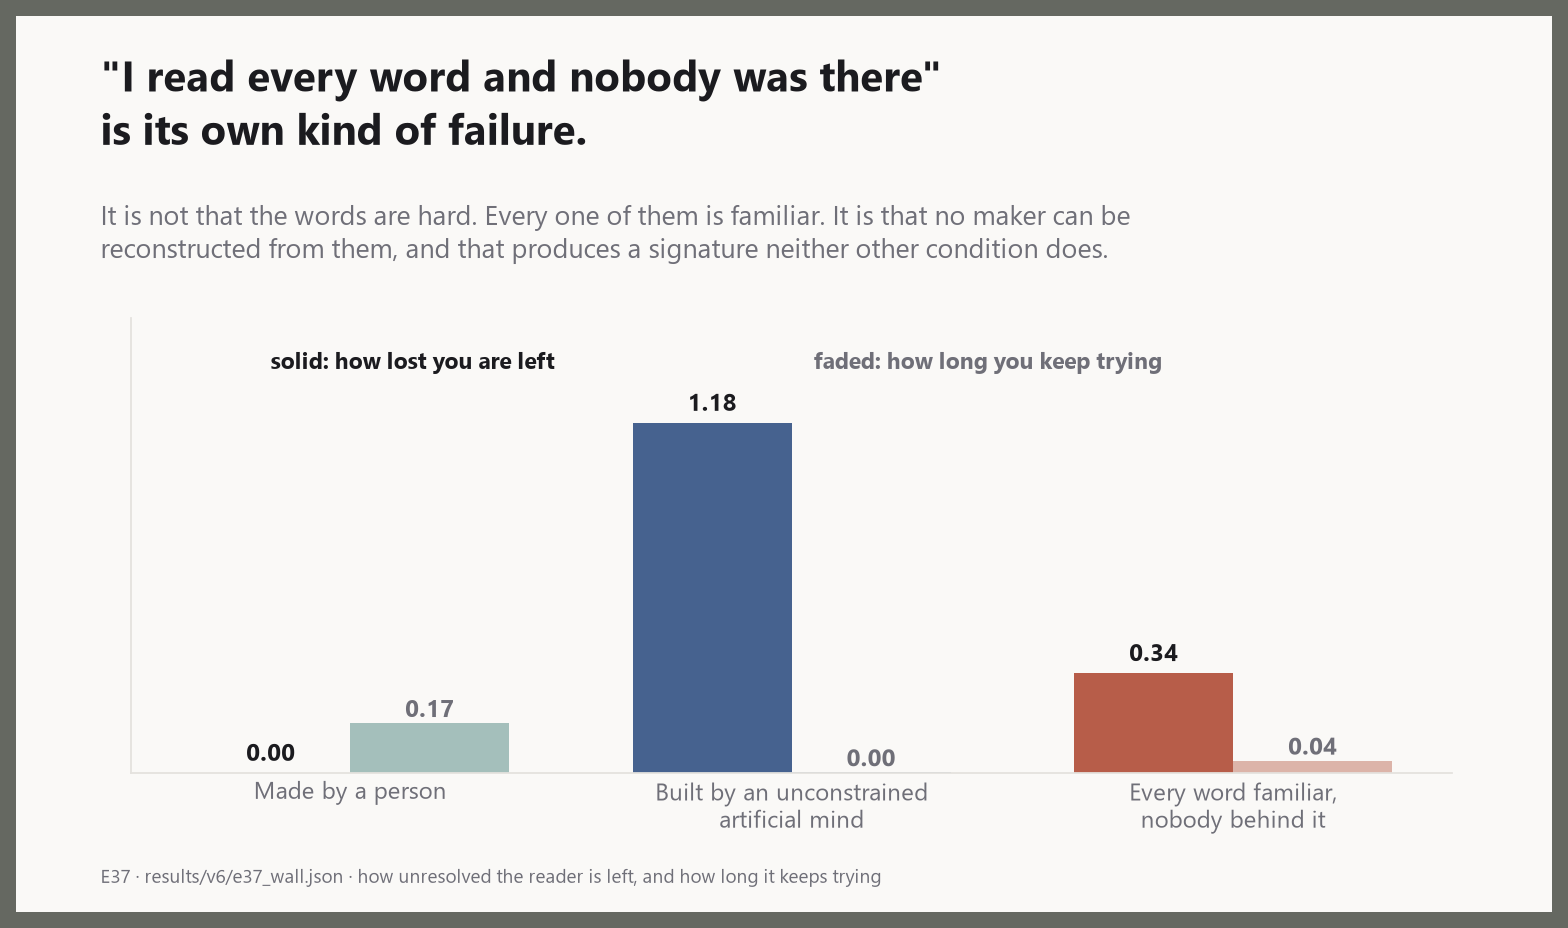
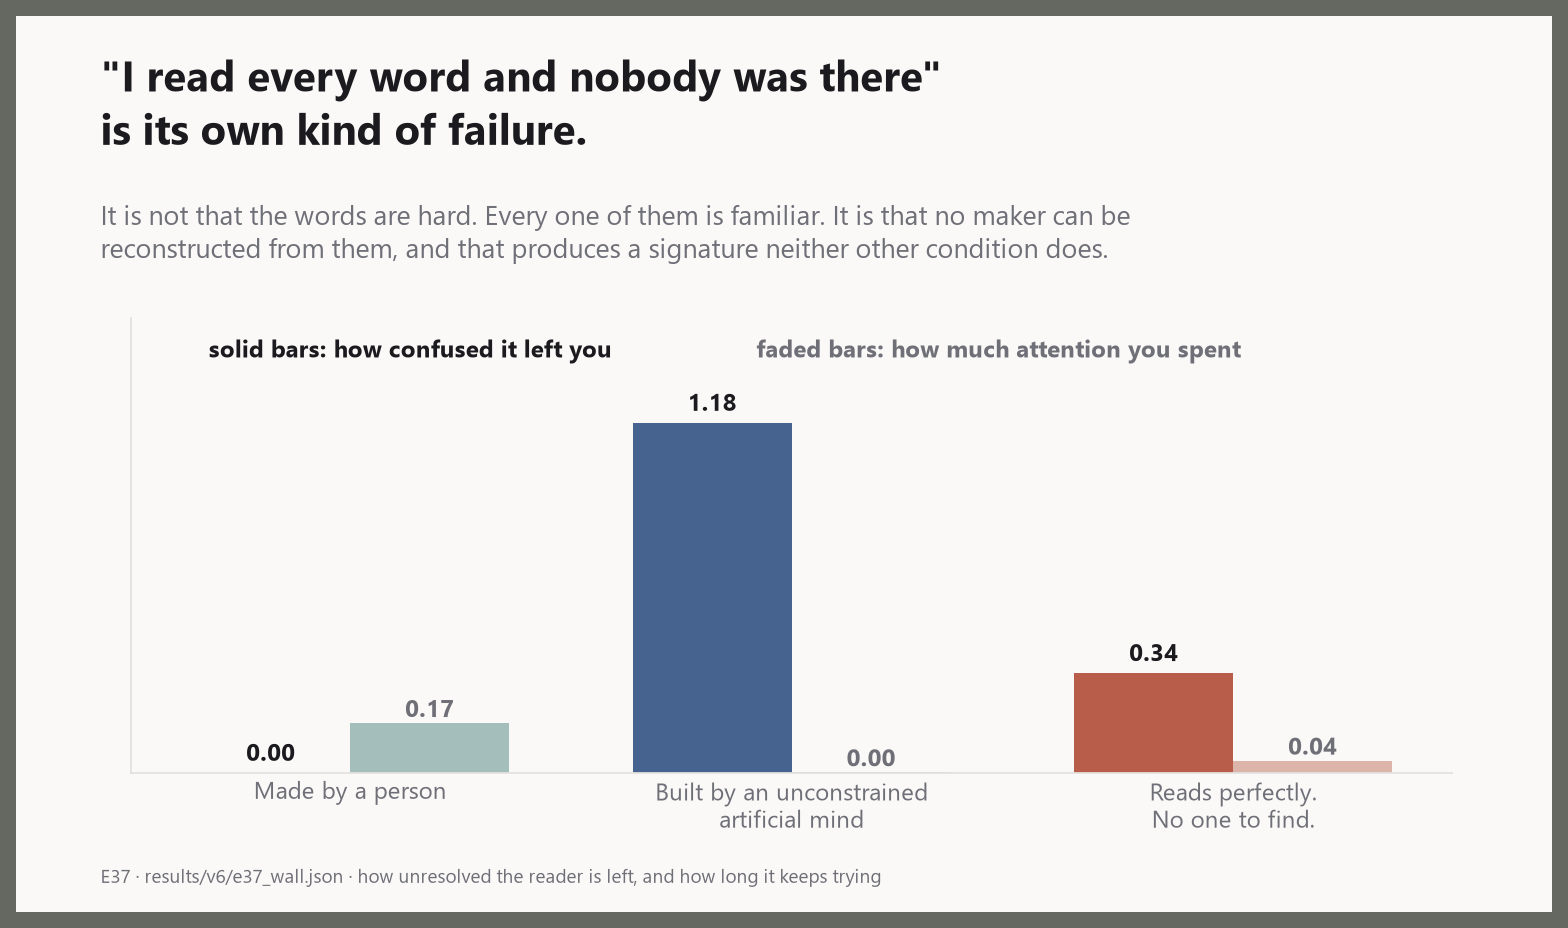
Make plate 22 carry the credibility itself, and unpick plate 3's labels
PLATE 22. The title now states the act rather than the result, because the act
is the claim: almost nobody tries to break their own model, and running this
test on most published work would leave very little standing. Someone who reads
nothing but the title should still take away that this project went looking for
its own failure on purpose.

The qualification moved off the footer and into the frame, where it was clipped
before. A caveat nobody can read is worse than no caveat: it looks like a claim
with no limits on it. It now says the thing plainly, that the overall picture
holds together while most of its individual parts are not load-bearing, and that
almost nobody checks that about their own work.

Key relabelled to say what the two colours mean rather than name them: "shows up
without my theory" against "needed my theory".

PLATE 3. "Every word familiar, nobody behind it" was doing two jobs and neither
landed. Now "Reads perfectly. No one to find.", which is the complaint in the
title said as a condition.

And the legend was naming quantities instead of experiences. "How lost you are
left" and "how long you keep trying" are the model's vocabulary. A reader wants
the outcome and the cost, so they now read "how confused it left you" and "how
much attention you spent".

243 tests passing, 26 plates clean through the audit.

Changed region(s): [[0.4688, 0.3438, 0.7812, 0.4062], [0.125, 0.3438, 0.4062, 0.4062], [0.7188, 0.8438, 0.8438, 0.9062]]

diff --git a/scripts/make_walkthrough_plates.py b/scripts/make_walkthrough_plates.py
@@ -115,7 +115,7 @@ def plate_03_the_wall():
     c = d["cells"]
     order = [("human", "Made by a person", HUMAN),
              ("foreign", "Built by an unconstrained\nartificial mind", COOL),
-             ("noninvertible", "Every word familiar,\nnobody behind it", MACHINE)]
+             ("noninvertible", "Reads perfectly.\nNo one to find.", MACHINE)]
     ent = [float(c[k]["final_entropy"]) for k, _, _ in order]
     eng = [float(c[k]["engaged_fraction"]) for k, _, _ in order]
 
@@ -131,10 +131,10 @@ def plate_03_the_wall():
     ax.set_xticklabels([o[1] for o in order], fontsize=11)
     bar_labels(ax, b1, ent, fmt="{:.2f}", fontsize=11, color=INK)
     bar_labels(ax, b2, eng, fmt="{:.2f}", fontsize=11, color=MUTED)
-    annotate(ax, -0.18, max(ent) * 1.14, "solid: how lost you are left",
-             color=INK, fontsize=10.5, weight="bold")
-    annotate(ax, 1.05, max(ent) * 1.14, "faded: how long you keep trying",
-             color=MUTED, fontsize=10.5, weight="bold")
+    annotate(ax, -0.32, max(ent) * 1.17, "solid bars: how confused it left you",
+             color=INK, fontsize=11, weight="bold", ha="left")
+    annotate(ax, 0.92, max(ent) * 1.17, "faded bars: how much attention you spent",
+             color=MUTED, fontsize=11, weight="bold", ha="left")
     ax.set_ylim(0, max(ent) * 1.3)
     clean_axis(ax)
     ax.set_yticks([])
@@ -783,10 +783,10 @@ def plate_22_how_much_is_the_theory():
     mine = [1.0 - v for v in vals]
 
     fig, ax = plate(
-        "I rebuilt my model with the theory taken out,\nto see what I could still take credit for.",
-        "Each bar is one finding. The grey part is how much of it showed up anyway in a model "
-        "built the same way with random settings. The teal part is what was left over, and the "
-        "teal part is the only bit that is evidence for this theory rather than for the method.",
+        "Almost nobody tries to break their own model.\nI did, and most of my findings did not survive it.",
+        "The test: rebuild the model hundreds of times with every setting my theory specifies "
+        "replaced by a random one. If a finding still turns up, my theory was never what produced "
+        "it. Run this on most published models and very little would be left standing.",
         "S-1 - results/v8/s1_severity.json - 600 randomly parameterised rebuilds per finding")
 
     pos = ax.get_position()
@@ -806,16 +806,22 @@ def plate_22_how_much_is_the_theory():
 
     ax.set_yticks(y, labels, fontsize=12.5)
     ax.set_xlim(0, 1.20)
-    ax.set_ylim(-0.62, len(labels) + 0.16)
+    ax.set_ylim(-1.35, len(labels) + 0.16)
     clean_axis(ax, "", "")
     ax.set_xticks([])
     for s in ax.spines.values():
         s.set_visible(False)
 
-    annotate(ax, 0.02, len(labels) - 0.30, "would have happened anyway",
+    annotate(ax, 0.02, len(labels) - 0.30, "shows up without my theory",
              color=MUTED, fontsize=12, weight="bold", va="center", ha="left")
-    annotate(ax, 0.99, len(labels) - 0.30, "actually mine",
+    annotate(ax, 0.99, len(labels) - 0.30, "needed my theory",
              color=HUMAN, fontsize=12, weight="bold", va="center", ha="right")
+    # The qualification belongs INSIDE the frame. In the footer it was clipped, and a caveat
+    # nobody can read is worse than no caveat at all: it looks like a claim with no limits on it.
+    annotate(ax, 0.0, -0.90,
+             "The overall picture still holds together. Most of its individual parts\n"
+             "are not load-bearing, and almost nobody checks that about their own work.",
+             color=INK, fontsize=11.5, weight="bold", va="center", ha="left")
 
     record(save(fig, "22_how_much_is_the_theory"),
            "Almost nobody publishes this number about their own work. It costs the project its "
